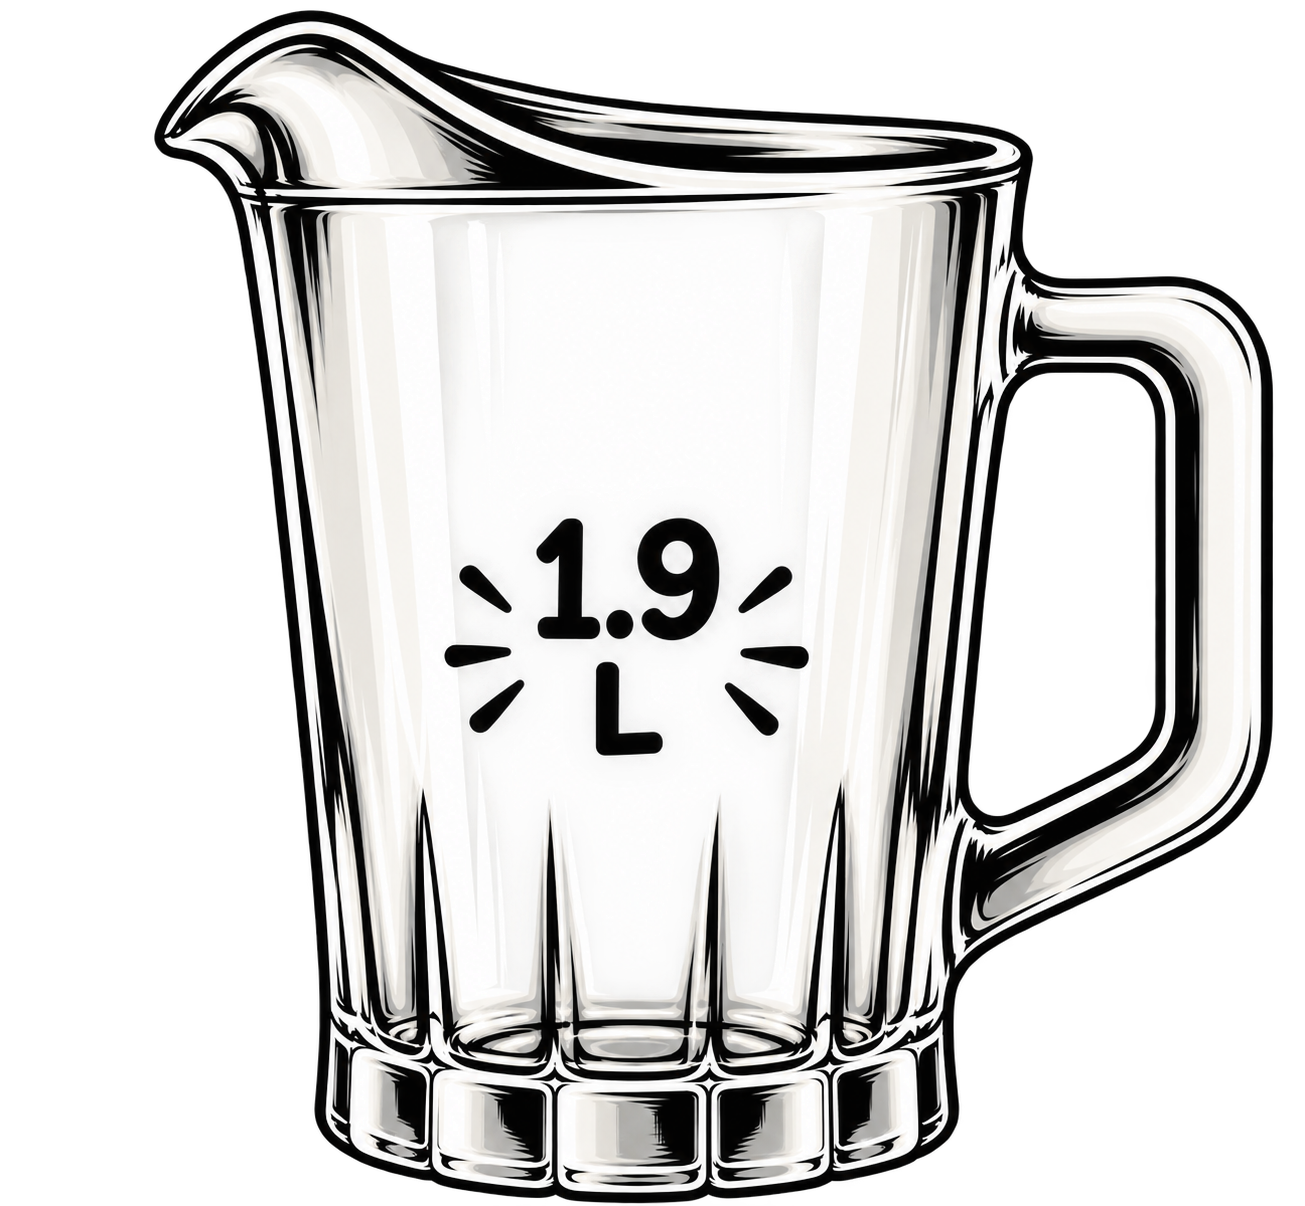
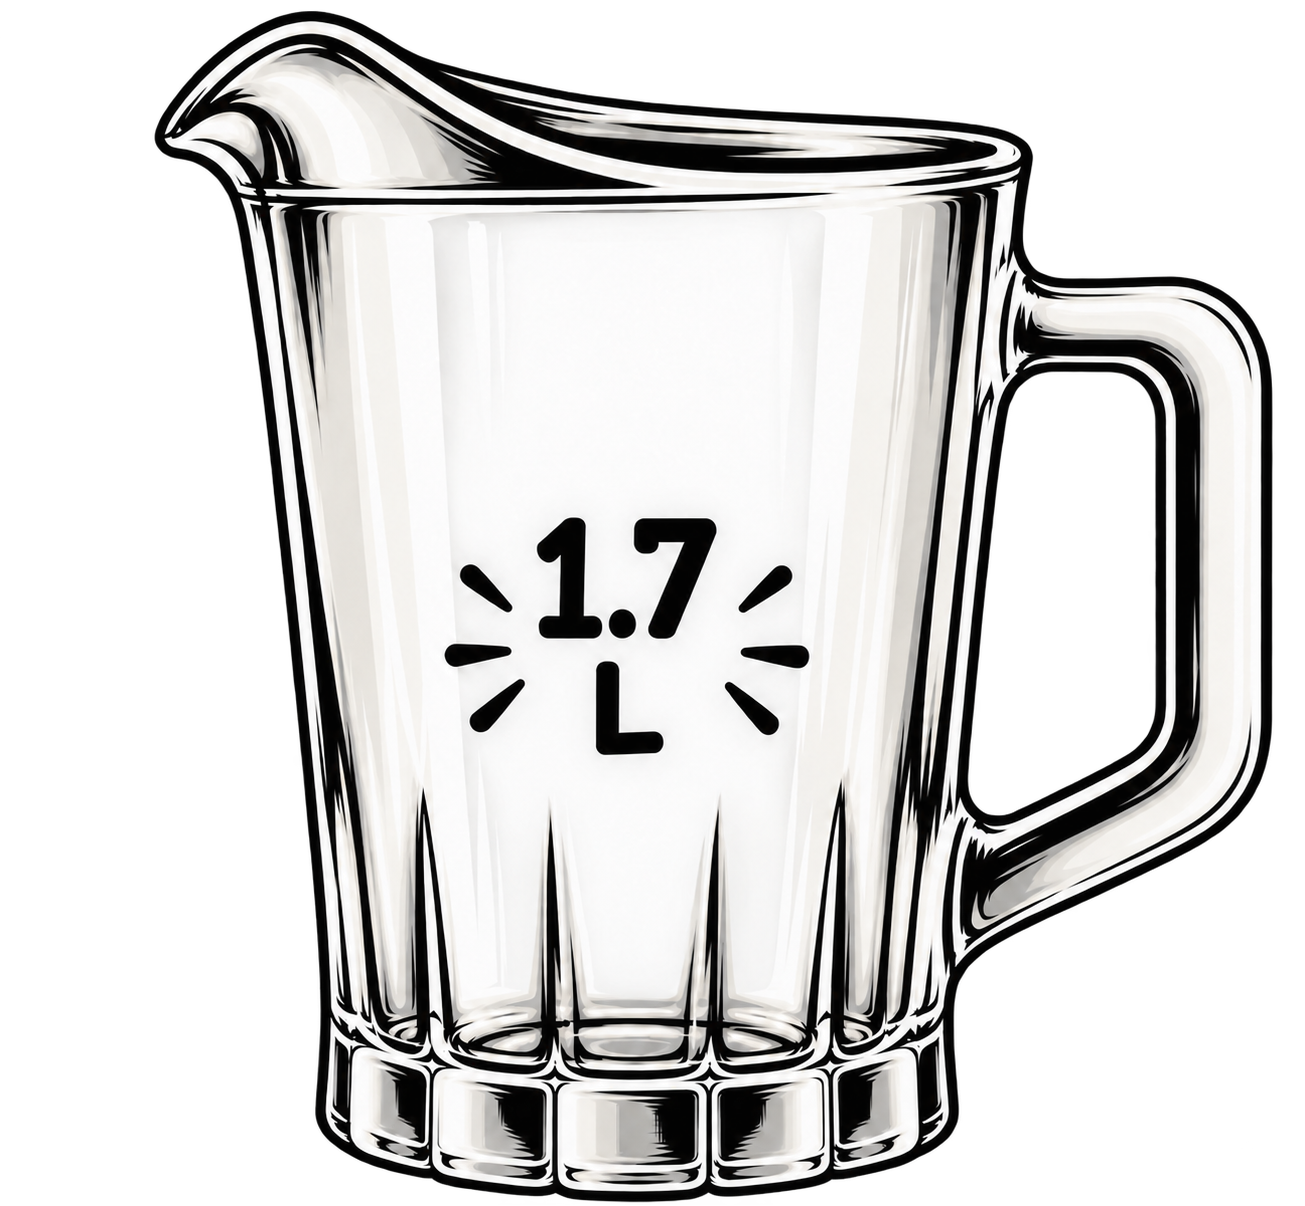
feat: refine home artwork interactions and glassware

diff --git a/frontend/src/pages/Home.jsx b/frontend/src/pages/Home.jsx
@@ -10,8 +10,8 @@ import sortIcon from "../assets/icons/sort-imperial-transparent.png";
 import "./Home.css";
 
 const HOME_ARTWORK = {
-    museum: { src: museumIcon, label: "Museo" },
-    order: { src: sortIcon, label: "Orden" },
+    museum: { src: museumIcon, label: "Museo", compactHitbox: true },
+    order: { src: sortIcon, label: "Orden", compactHitbox: true },
     tapList: { src: tapListIcon, label: "Tap List" },
 };
 
@@ -191,8 +191,15 @@ export default function Home() {
                         artworkOpenRef.current = false;
                         setPeekAsset(null);
                     }}
-                    panelStyle={{ display: "flex", background: "transparent" }}
+                    panelStyle={{
+                        display: "flex",
+                        background: "transparent",
+                        pointerEvents: peekAsset.compactHitbox ? "none" : undefined,
+                    }}
                 >
+                    {peekAsset.compactHitbox && (
+                        <div className="home-artwork-peek-hitbox" />
+                    )}
                     <img
                         className="home-artwork-peek-image"
                         src={peekAsset.src}

diff --git a/frontend/src/components/BeerCard.jsx b/frontend/src/components/BeerCard.jsx
@@ -13,7 +13,7 @@ const GLASSWARE = {
     pinta_chica: { src: smallPintGlass, label: "Pinta chica", capacity: "330 ML", size: 60, peekInset: "0% 19% 2% 19%" },
     pinta_grande: { src: largePintGlass, label: "Pinta grande", capacity: "500 ML", size: 64, peekInset: "4% 21% 4% 21%" },
     jarra_chica: { src: smallPitcherGlass, label: "Jarra chica", capacity: "1 L", size: 66, peekInset: "1% 4% 0% 11%" },
-    jarra_grande: { src: largePitcherGlass, label: "Jarra grande", capacity: "1.9 L", size: 70, peekInset: "0% 0% 0% 10%" },
+    jarra_grande: { src: largePitcherGlass, label: "Jarra grande", capacity: "1.7 L", size: 70, peekInset: "0% 0% 0% 10%" },
 };
 
 // Session-scoped registry of background URLs that have already completed loading.

diff --git a/frontend/src/pages/Home.css b/frontend/src/pages/Home.css
@@ -4,7 +4,7 @@
     max-width: 100%;
     height: auto;
     margin: 0;
-    transform: scale(1.15);
+    transform: scale(1.20);
 }
 
 .home-settings-anchor {
@@ -71,7 +71,7 @@
     width: 76px;
     height: auto;
     margin: -6px;
-    transform: scale(1.3524);
+    transform: scale(1.393);
 }
 
 .home-controls__order {
@@ -146,6 +146,13 @@
     user-select: none;
     -webkit-user-select: none;
     -webkit-touch-callout: none;
+    -webkit-tap-highlight-color: transparent;
+}
+
+.home-artwork-peek-hitbox {
+    position: absolute;
+    inset: 12%;
+    pointer-events: auto;
 }
 
 .home-artwork-peek-image {
